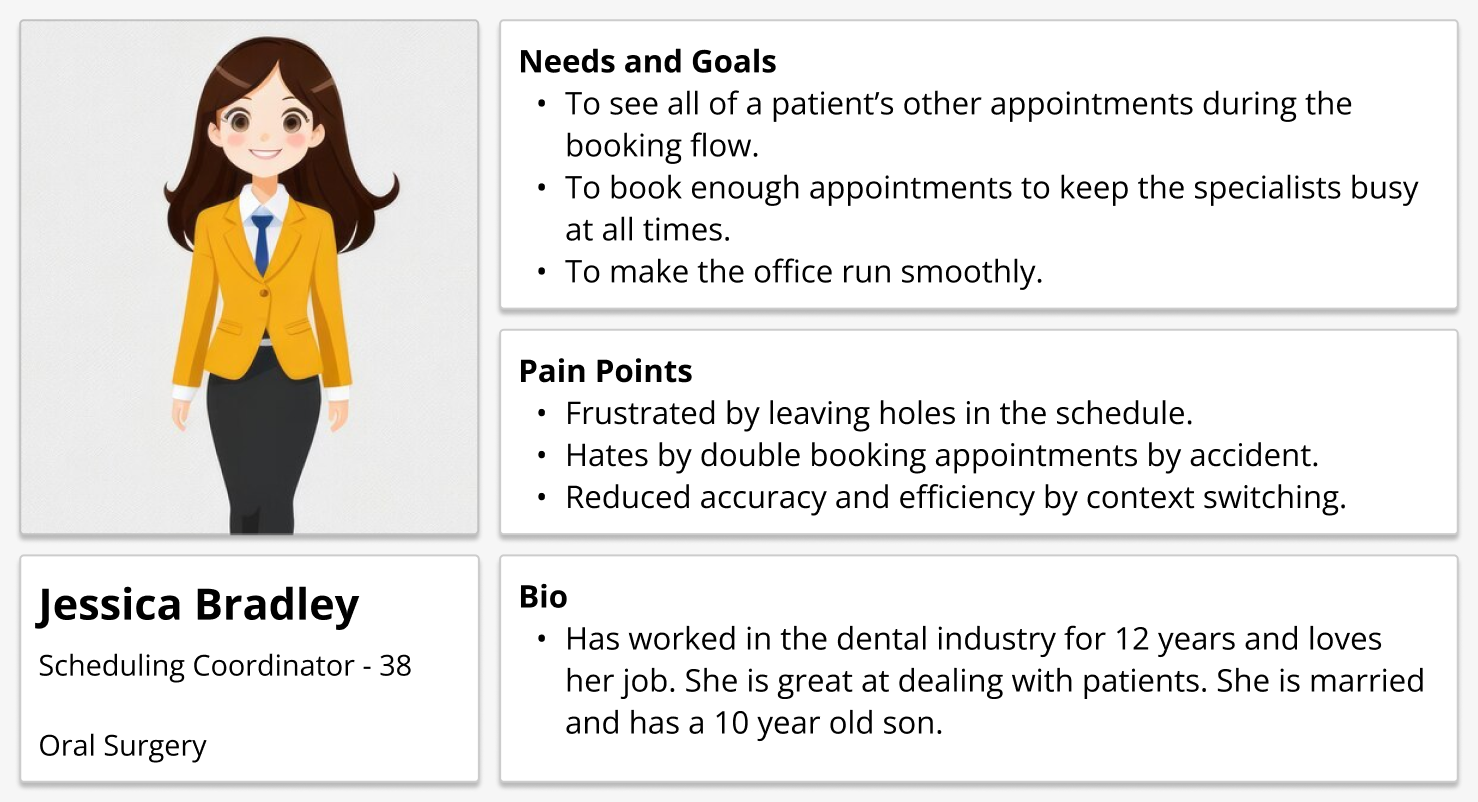
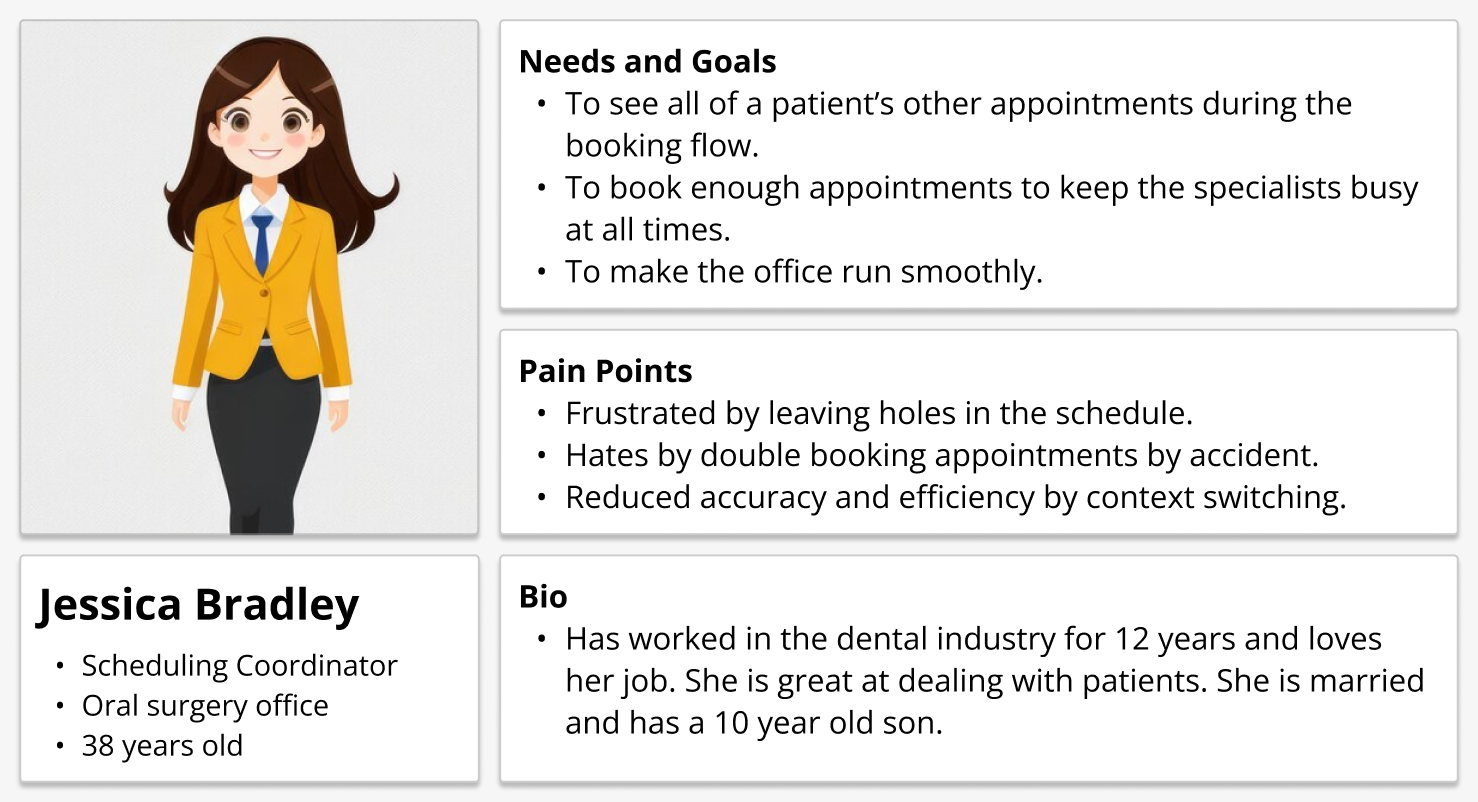
Font update

Changed region(s): [[0.0311, 0.8728, 0.2179, 0.9663], [0.0311, 0.8105, 0.2801, 0.8416]]

diff --git a/appointmentalerts.html b/appointmentalerts.html
@@ -20,8 +20,6 @@
      <meta name="viewport" content="width=device-width, initial-scale=1">
      <link href="index.css" rel="stylesheet" type="text/css">
      <script src="https://ajax.googleapis.com/ajax/libs/jquery/3.5.1/jquery.min.js"></script>
-     <link rel="preconnect" href="https://fonts.googleapis.com">
-     <link rel="preconnect" href="https://fonts.gstatic.com" crossorigin>
      <link href="https://fonts.googleapis.com/css2?family=Oooh+Baby&family=Poppins:ital@0;1&display=swap" rel="stylesheet">
     </head>  
    <body>
@@ -60,8 +58,9 @@
   <hr style="width: 180px; margin-left: 0px;">
   <ul>
     <li class="sideLinks"><a href="moveabroad.html">Move Abroad</a></li>
+    <li class="current sideLinks"><a href="#">Appointment Alerts</a></li>
     <li class="sideLinks"><a href="routingslip.html">Routing Slip</a></li>
-    <li class="current sideLinks"><a href="#">Family Billing</a></li>
+    <li class="sideLinks"><a href="#">Family Billing</a></li>
     <li class="sideLinks"><a href="gap.html">Georgia Animal Project</a></li>
     <li class="sideLinks"><a href="bonsaioutlet.html">BonsaiOutlet.com</a></li>
     <li class="sideLinks"><a href="energygov.html">Energy.gov</a></li>
@@ -77,7 +76,7 @@
 
     <div class="heading">
       <div class="caseStudyLogos">
-        <img src="images/AppointmentAlertsImages/AppointmentAlertsMock.png" class="caseStudySmallImgNoBorder">
+        <img src="images/AppointmentAlertsImages/AppointmentAlertsTitle.png" class="caseStudySmallImgNoBorder">
      </div>
       <h3>UX Design Case Study</h3>
       <p>Feature design for dental practice management SaaS, I was the UX designer on a cross-functional team.</p>
@@ -107,35 +106,29 @@
      <p>The business prioritized ‘family billing’ because of customer requests on UserVoice. This project was originally assigned to another designer at the company who conducted the initial research. This involved 6 customer interviews to uncover the general pain points and competitive analysis of 4 dental practice management software solutions for this same issue.</p>
      <p>What We Wanted to Learn:</p>
      <ul>
-        <li>During the scheduling process do users want to be notified if a patient has other appointments? At what point in the process? What type of notification? For what type of appointment?</li>
+        <li>During the scheduling process do users want to be notified if a patient has other appointments?</li>
+          <ul>
+            <li>At what point in the process?</li>
+            <li>What type of notification?</li>
+            <li>For what type of appointment?</li>
+          </ul>
         <li>What type of practice do they work at?</li>
         <li>Why do they want this feature?</li>
         <li>How would they use this feature?</li>
      </ul>
-     
-     <div class="imgLimit">
-        <img src="images/AppointmentAlertsImages/UserInterviewsScreenshot1.png" class="caseStudySmallImgNoBorder">
-     </div>
-
-     <div class="caseStudyDoubleImgContainer">
-        <div class="caseStudyDoubleImg"> 
-          <img src="images/AppointmentAlertsImages/UserInterviewsScreenshot1.png" class="caseStudySmallImg">
-        </div>
-        <div class="caseStudyDoubleImg"> 
-          <img src="images/AppointmentAlertsImages/SarahWilsonPersona.png" class="caseStudySmallImg">
-        </div>
-     </div>
-   
+     <p>The business prioritized ‘family billing’ because of customer requests on UserVoice. This project was originally assigned to another designer at the company who conducted the initial research. This involved 6 customer interviews to uncover the general pain points and competitive analysis of 4 dental practice management software solutions for this same issue.</p>
+     <div class="caseStudyMedImgContainer">
+      <img src="images/AppointmentAlertsImages/UserInterviewsScreenshot1.png" class="caseStudyMedImg">
+   </div>
    
    <p>This is a screenshot of the original ledger design. It only allowed for invoices to be printed one at a time:</p>
-   <div>
-     <img src="images/familyBillingImages/Old Individual Ledger (No Combined Ledger).png" class="caseStudyLargeImg">
-  </div>
-  <p>Our users were spending a lot of unnecessary time when billing a family because they had to print out individual bills for each patient and then add that total up. There was also a theme of friction when managing patient connections.</p>
-    
+
     <h3 id="defineBB">Define</h3>
    <p>The customer interviews and competitive research informed our product line manager enough to create some brief requirements for this epic. The output was this user story map that served as a roadmap for developing these features.</p>
     
+   <div class="caseStudyMedImgContainer">
+    <img src="images/AppointmentAlertsImages/SarahWilsonPersona.png" class="caseStudyMedImg">
+ </div>
 
     <p>Once the original designer got to the ideation phase, she could not get buy-in for her solution because it involved too much change; I was asked by the UX manager to come in and pair with her to help make progress, this involved us taking a step back. After I was up-to-speed, the original designer was let go and this project was reassigned to me.</p>
     

diff --git a/index.css b/index.css
@@ -222,6 +222,7 @@ h1 {
   font-weight: 100;
   margin-top: 0px;
   margin-bottom: 0px;
+  font-family: 'Times New Roman';
 }
 
 h2 {
@@ -427,7 +428,7 @@ h6 {
     height: 70px;
     border-radius: 8px;
     border: solid;
-    border-color: #000000;
+    border-color: #C2C2C2;
     border-width: 1px;
     transition: all .2s ease-out;  
 }
@@ -437,7 +438,7 @@ h6 {
     box-shadow: 0px 4px 8px #CECECE;   
 }
 
-/* for routing slip .doc */
+
 .MedImgWrapper{
     display: flex;
     justify-content: center;
@@ -573,8 +574,8 @@ footer {
 @media (max-width: 740px) {
 
 .designIcon {
-    width: 60px;
-    height: 60px;
+    width: 50px;
+    height: 50px;
     border-radius: 8px;
 }
 

diff --git a/familybilling.html b/familybilling.html
@@ -20,8 +20,6 @@
      <meta name="viewport" content="width=device-width, initial-scale=1">
      <link href="index.css" rel="stylesheet" type="text/css">
      <script src="https://ajax.googleapis.com/ajax/libs/jquery/3.5.1/jquery.min.js"></script>
-     <link rel="preconnect" href="https://fonts.googleapis.com">
-     <link rel="preconnect" href="https://fonts.gstatic.com" crossorigin>
      <link href="https://fonts.googleapis.com/css2?family=Oooh+Baby&family=Poppins:ital@0;1&display=swap" rel="stylesheet">
     </head>  
    <body>

diff --git a/routingslip.html b/routingslip.html
@@ -20,8 +20,6 @@
      <meta name="viewport" content="width=device-width, initial-scale=1">
      <link href="index.css" rel="stylesheet" type="text/css">
      <script src="https://ajax.googleapis.com/ajax/libs/jquery/3.5.1/jquery.min.js"></script>
-     <link rel="preconnect" href="https://fonts.googleapis.com">
-     <link rel="preconnect" href="https://fonts.gstatic.com" crossorigin>
      <link href="https://fonts.googleapis.com/css2?family=Oooh+Baby&family=Poppins:ital@0;1&display=swap" rel="stylesheet">
     </head>  
    <body>

diff --git a/gap.html b/gap.html
@@ -7,8 +7,6 @@
      <meta name="viewport" content="width=device-width, initial-scale=1">
      <link href="index.css" rel="stylesheet" type="text/css">
      <script src="https://ajax.googleapis.com/ajax/libs/jquery/3.5.1/jquery.min.js"></script>
-     <link rel="preconnect" href="https://fonts.googleapis.com">
-     <link rel="preconnect" href="https://fonts.gstatic.com" crossorigin>
      <link href="https://fonts.googleapis.com/css2?family=Oooh+Baby&family=Poppins:ital@0;1&display=swap" rel="stylesheet">
     </head>  
    <body>

diff --git a/moveabroad.html b/moveabroad.html
@@ -7,8 +7,6 @@
      <meta name="viewport" content="width=device-width, initial-scale=1">
      <link href="index.css" rel="stylesheet" type="text/css">
      <script src="https://ajax.googleapis.com/ajax/libs/jquery/3.5.1/jquery.min.js"></script>
-     <link rel="preconnect" href="https://fonts.googleapis.com">
-     <link rel="preconnect" href="https://fonts.gstatic.com" crossorigin>
      <link href="https://fonts.googleapis.com/css2?family=Oooh+Baby&family=Poppins:ital@0;1&display=swap" rel="stylesheet">
     </head>  
    <body>

diff --git a/howToGetaJobInTech.html b/howToGetaJobInTech.html
@@ -9,8 +9,6 @@
     <link rel="shortcut icon" href="images/ja-logo.png" type="image/x-icon" /> 
     <link href="index.css" rel="stylesheet" type="text/css">
     <script src="https://ajax.googleapis.com/ajax/libs/jquery/3.5.1/jquery.min.js"></script>
-    <link rel="preconnect" href="https://fonts.googleapis.com">
-    <link rel="preconnect" href="https://fonts.gstatic.com" crossorigin>
     <link href="https://fonts.googleapis.com/css2?family=Oooh+Baby&family=Poppins:ital@0;1&display=swap" rel="stylesheet">
    </head>  
   <body>

diff --git a/outcomesover.html b/outcomesover.html
@@ -9,8 +9,6 @@
     <link rel="shortcut icon" href="images/ja-logo.png" type="image/x-icon" /> 
     <link href="index.css" rel="stylesheet" type="text/css">
     <script src="https://ajax.googleapis.com/ajax/libs/jquery/3.5.1/jquery.min.js"></script>
-    <link rel="preconnect" href="https://fonts.googleapis.com">
-    <link rel="preconnect" href="https://fonts.gstatic.com" crossorigin>
     <link href="https://fonts.googleapis.com/css2?family=Oooh+Baby&family=Poppins:ital@0;1&display=swap" rel="stylesheet">
    </head>  
   <body>

diff --git a/index.html b/index.html
@@ -7,8 +7,6 @@
     <meta name="viewport" content="width=device-width, initial-scale=1">
     <link href="index.css" rel="stylesheet" type="text/css">
     <script src="https://ajax.googleapis.com/ajax/libs/jquery/3.5.1/jquery.min.js"></script>
-    <link rel="preconnect" href="https://fonts.googleapis.com">
-    <link rel="preconnect" href="https://fonts.gstatic.com" crossorigin>
     <link href="https://fonts.googleapis.com/css2?family=Oooh+Baby&family=Poppins:ital@0;1&display=swap" rel="stylesheet">
    </head>  
    <body>

diff --git a/bonsaioutlet.html b/bonsaioutlet.html
@@ -7,8 +7,6 @@
     <meta name="viewport" content="width=device-width, initial-scale=1">
     <link href="index.css" rel="stylesheet" type="text/css">
     <script src="https://ajax.googleapis.com/ajax/libs/jquery/3.5.1/jquery.min.js"></script>
-    <link rel="preconnect" href="https://fonts.googleapis.com">
-    <link rel="preconnect" href="https://fonts.gstatic.com" crossorigin>
     <link href="https://fonts.googleapis.com/css2?family=Oooh+Baby&family=Poppins:ital@0;1&display=swap" rel="stylesheet">
    </head>  
   <body>

diff --git a/energygov.html b/energygov.html
@@ -7,8 +7,6 @@
     <meta name="viewport" content="width=device-width, initial-scale=1">
     <link href="index.css" rel="stylesheet" type="text/css">
     <script src="https://ajax.googleapis.com/ajax/libs/jquery/3.5.1/jquery.min.js"></script>
-    <link rel="preconnect" href="https://fonts.googleapis.com">
-    <link rel="preconnect" href="https://fonts.gstatic.com" crossorigin>
     <link href="https://fonts.googleapis.com/css2?family=Oooh+Baby&family=Poppins:ital@0;1&display=swap" rel="stylesheet">
    </head>  
   <body>

diff --git a/blog.html b/blog.html
@@ -9,8 +9,6 @@
      <meta name="viewport" content="width=device-width, initial-scale=1">
      <link href="index.css" rel="stylesheet" type="text/css">
      <script src="https://ajax.googleapis.com/ajax/libs/jquery/3.5.1/jquery.min.js"></script>
-     <link rel="preconnect" href="https://fonts.googleapis.com">
-<link rel="preconnect" href="https://fonts.gstatic.com" crossorigin>
 <link href="https://fonts.googleapis.com/css2?family=Oooh+Baby&family=Poppins:ital@0;1&display=swap" rel="stylesheet">
    
     </head>  
